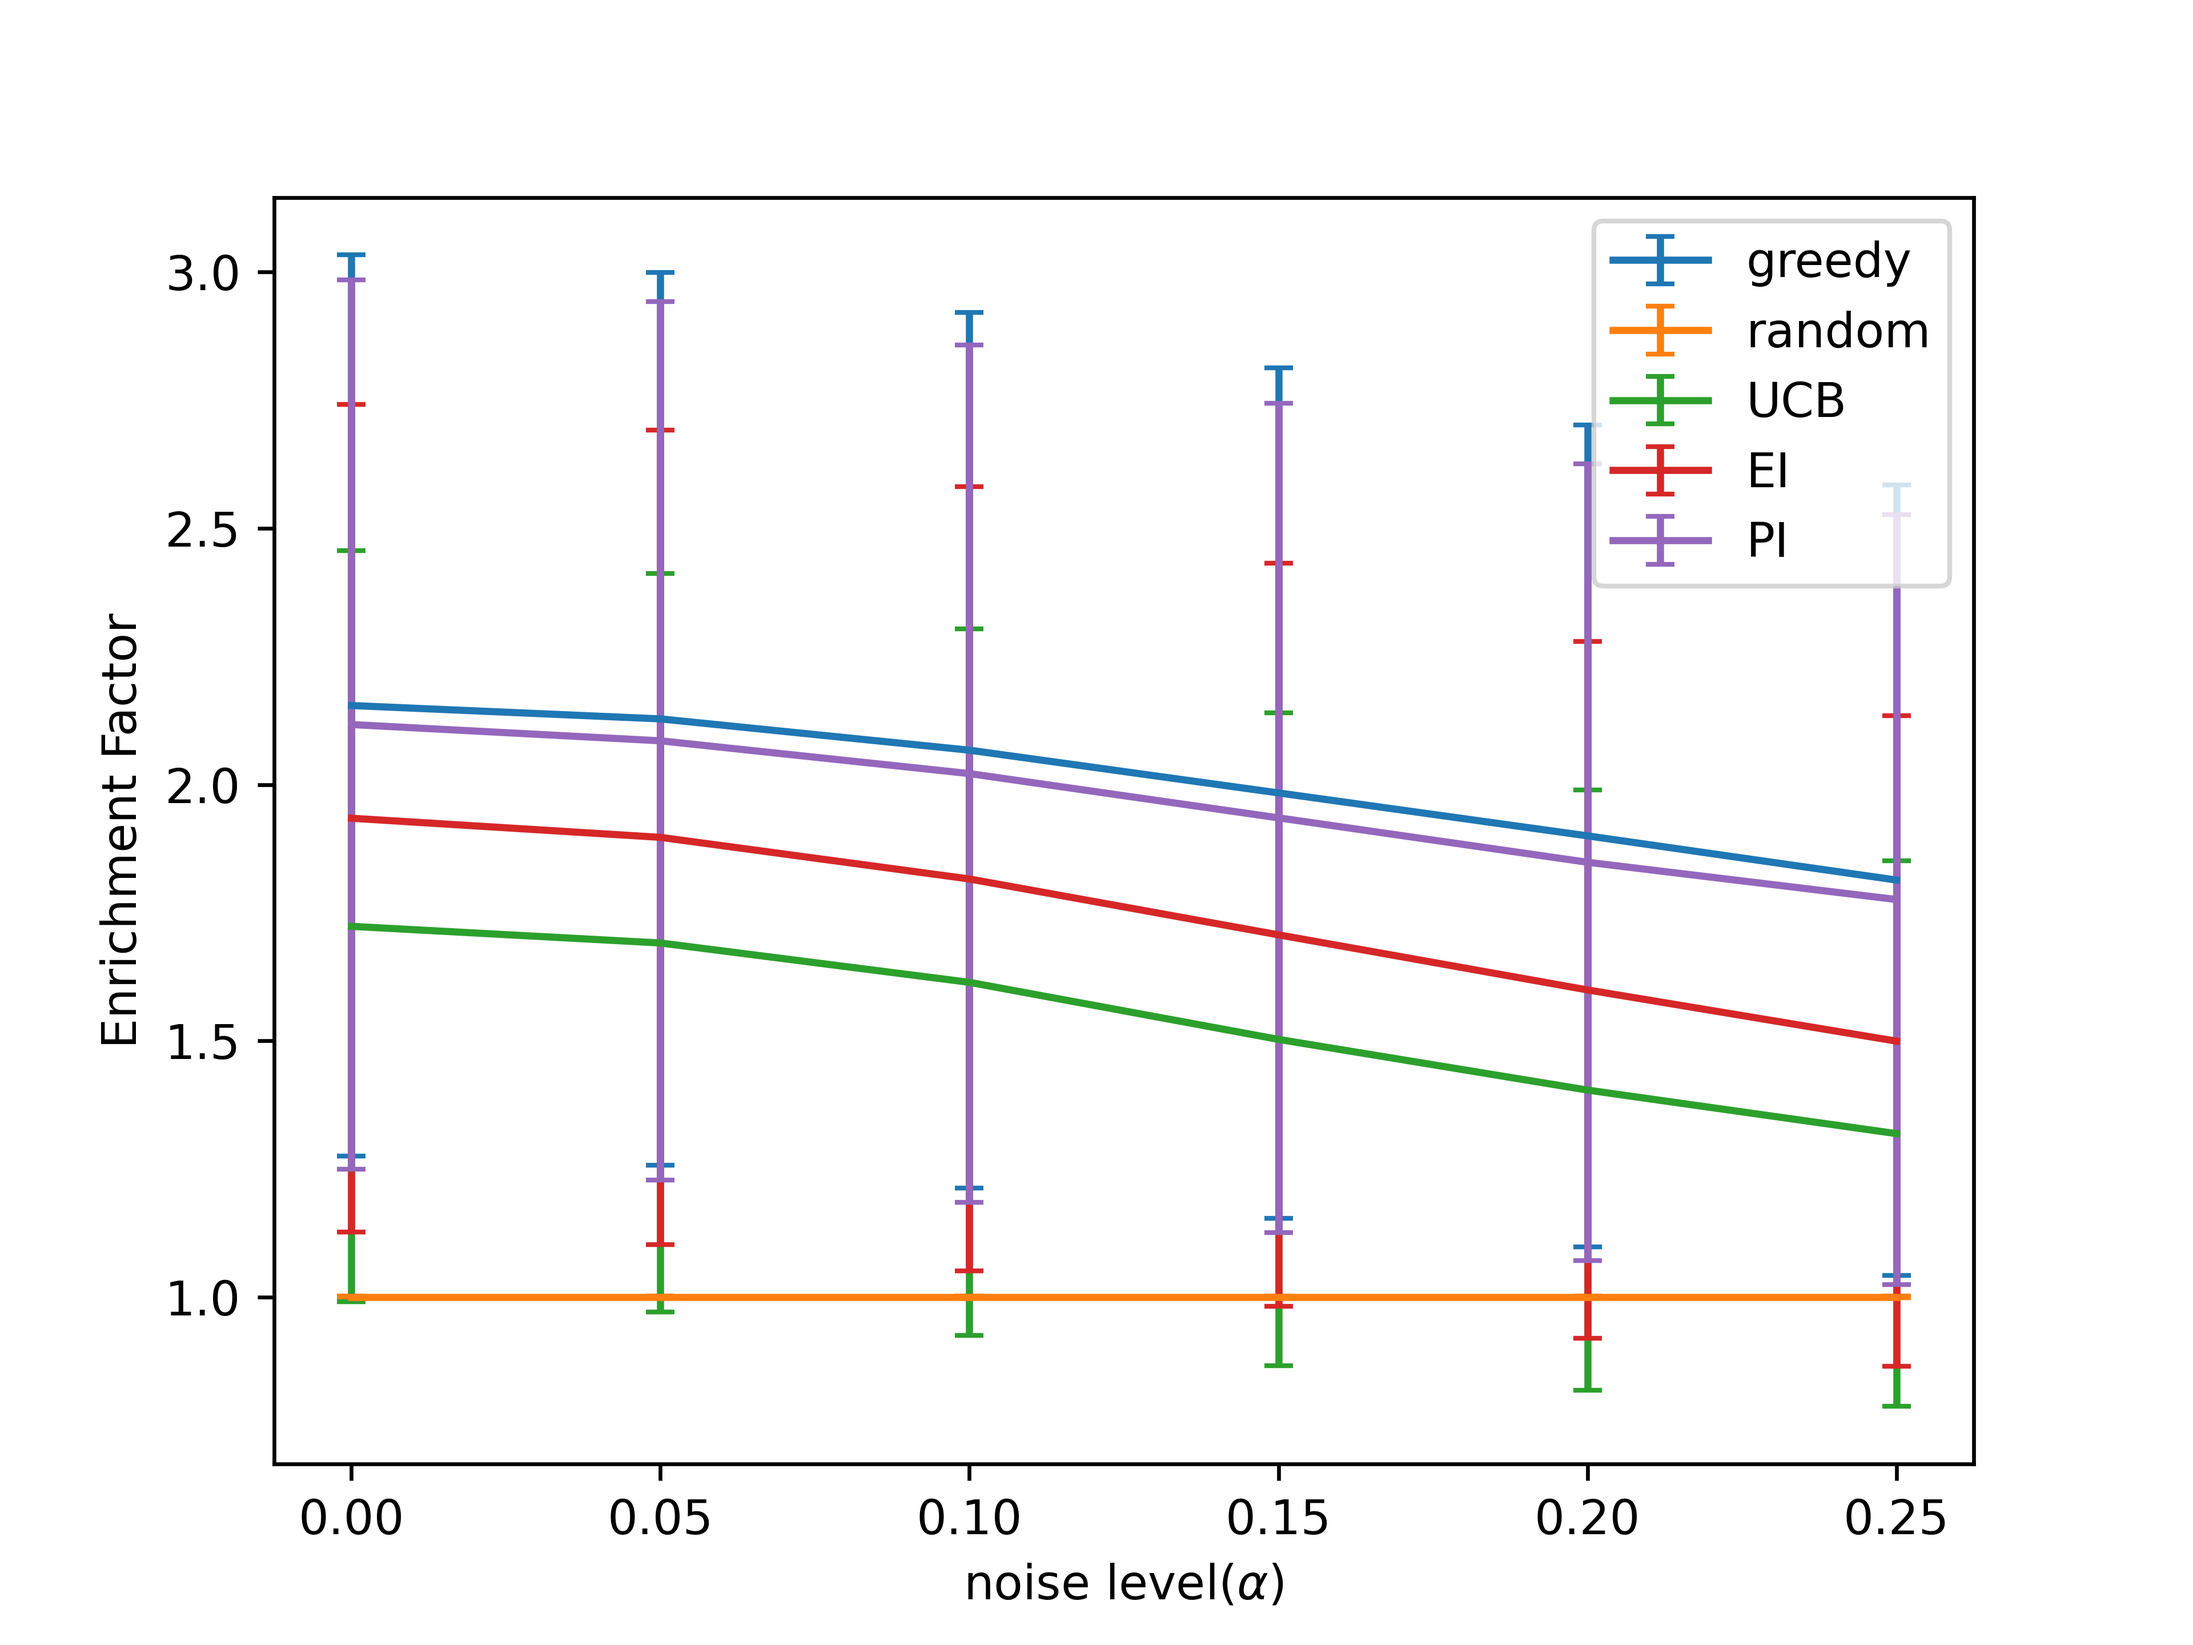
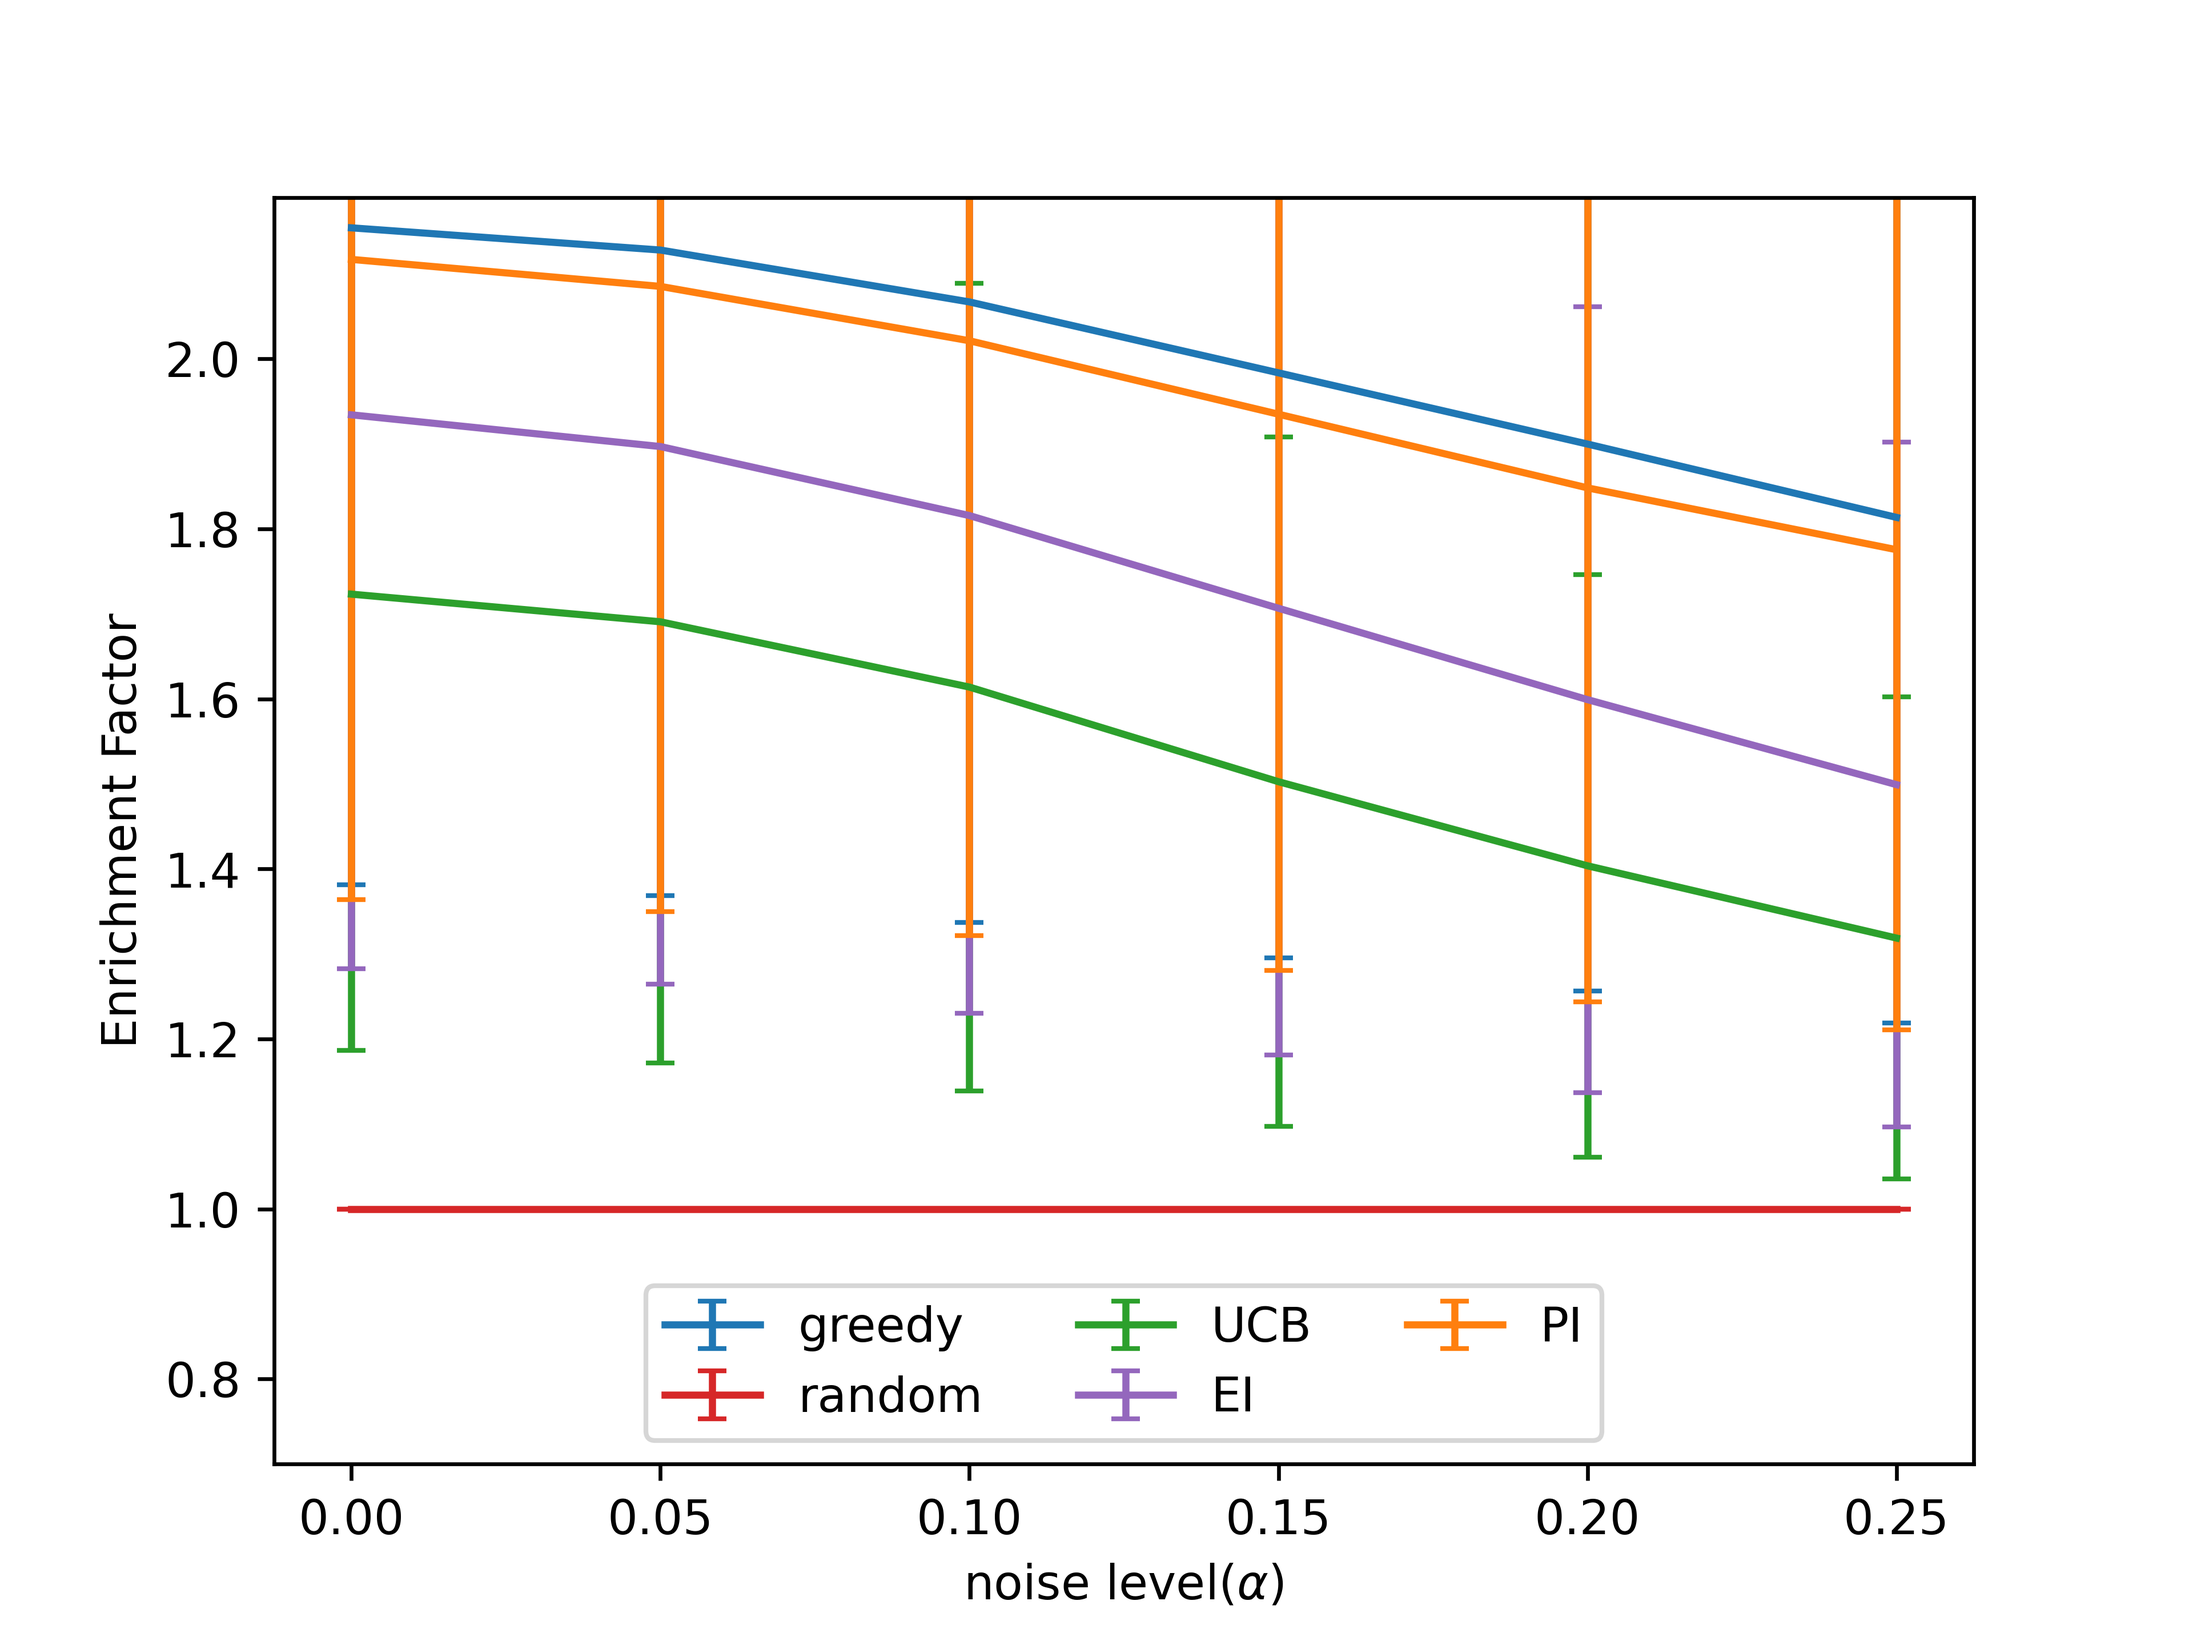
new graph

diff --git a/real_data_results.py b/real_data_results.py
@@ -16,7 +16,6 @@ percent = 10
 
 def figure6_data():
     # show average enrichment factor after approx 20% of dataset added to data
-    
     datasets = os.listdir('results_'+str(percent)+'%/')
     noise_2 = ['0.0', '5e-02', '1e-01', '1.5000000000000002e-01','2e-01', '2.5e-01']
     labels = ['greedy', 'random', 'UCB', 'EI', 'PI']
@@ -28,9 +27,7 @@ def figure6_data():
         all_res[i]=[]
         all_var[i]=[]
     
-    
     for j in noise_2:
-        
         noise_res = {}
         for l in labels:
             noise_res[l] = []
@@ -39,9 +36,7 @@ def figure6_data():
             if i[0] =='C':
             
                 length = len(pd.read_csv('qsar_data/'+i+'.csv'))
-            
                 index = int(np.round(length/100)*0.2-1)
-            
                 data, _ = ra.dataset(i, False, j, index, False, percent)
                 
                 for k in labels:
@@ -49,7 +44,7 @@ def figure6_data():
     
         for k in labels:
             all_res[k].append(np.mean(noise_res[k]))
-            all_var[k].append(np.std(noise_res[k]))
+            all_var[k].append(np.var(noise_res[k]))
             
     filename = open('figures/'+str(percent)+'%summarised/figure6.pkl','wb')
     pickle.dump([all_res, all_var], filename)
@@ -61,16 +56,19 @@ def figure6_graph():
     all_res, all_var = pickle.load(filename)
     noise_levels = np.linspace(0,0.25,6)
     labels = ['greedy', 'random', 'UCB', 'EI', 'PI']
-        
+    colors = ['tab:blue', 'tab:red', 'tab:green', 'tab:purple', 'tab:orange']
+    colors = dict(zip(labels,colors))
+                        
     for i in labels:
-        plt.errorbar(noise_levels, all_res[i], np.array(all_var[i]), label=i, capsize=3)
-        
+        plt.errorbar(noise_levels, all_res[i], np.array(np.transpose(all_var[i]))**0.5, label=i, capsize=3, color=colors[i])
+                                                
     plt.xlabel(r'noise level($\alpha$)')
     plt.ylabel('Enrichment Factor')
     plt.legend()
+    plt.legend(loc=8,ncol=3)
+    plt.ylim(0.7,2.19)
     plt.savefig('figures/real'+str(percent)+'%/fig6.png', dpi=600)
     plt.show()
-    return(all_res, all_var)    
    
 
 def figure7_data():
@@ -238,7 +236,7 @@ def figure8_graph(fraction):
     plt.xlabel(r'noise level($\alpha$)')
     plt.ylabel('retest wins (%)')
     plt.legend()
-    plt.savefig('figures/real'+str(percent)+'%/fig8'+str(fractions)'.png', dpi=600)
+    plt.savefig('figures/real'+str(percent)+'%/fig8'+str(fractions)+'.png', dpi=600)
     plt.show()
     
 
